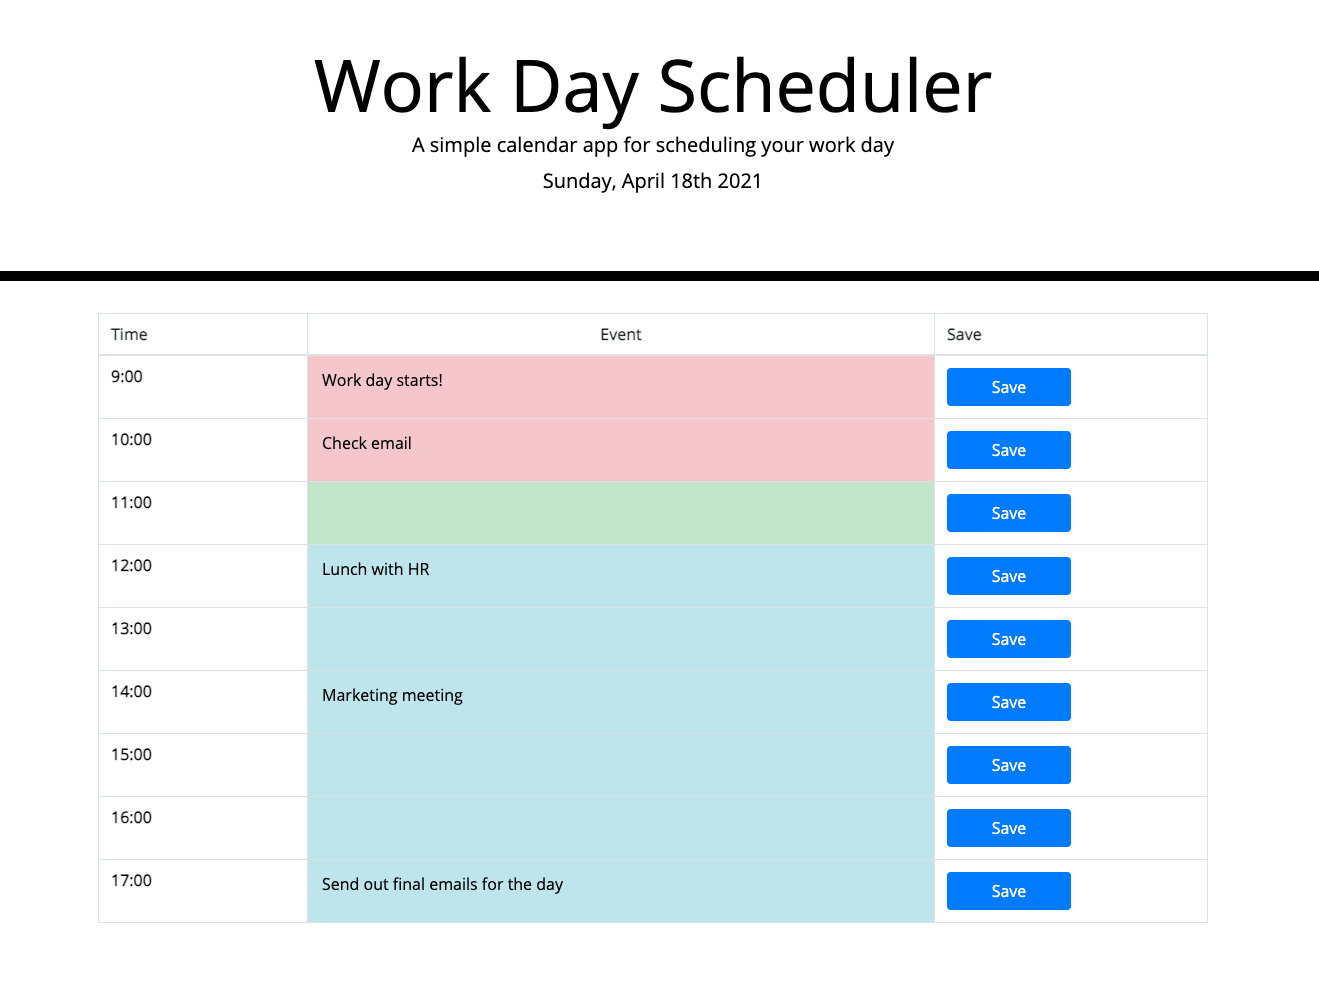
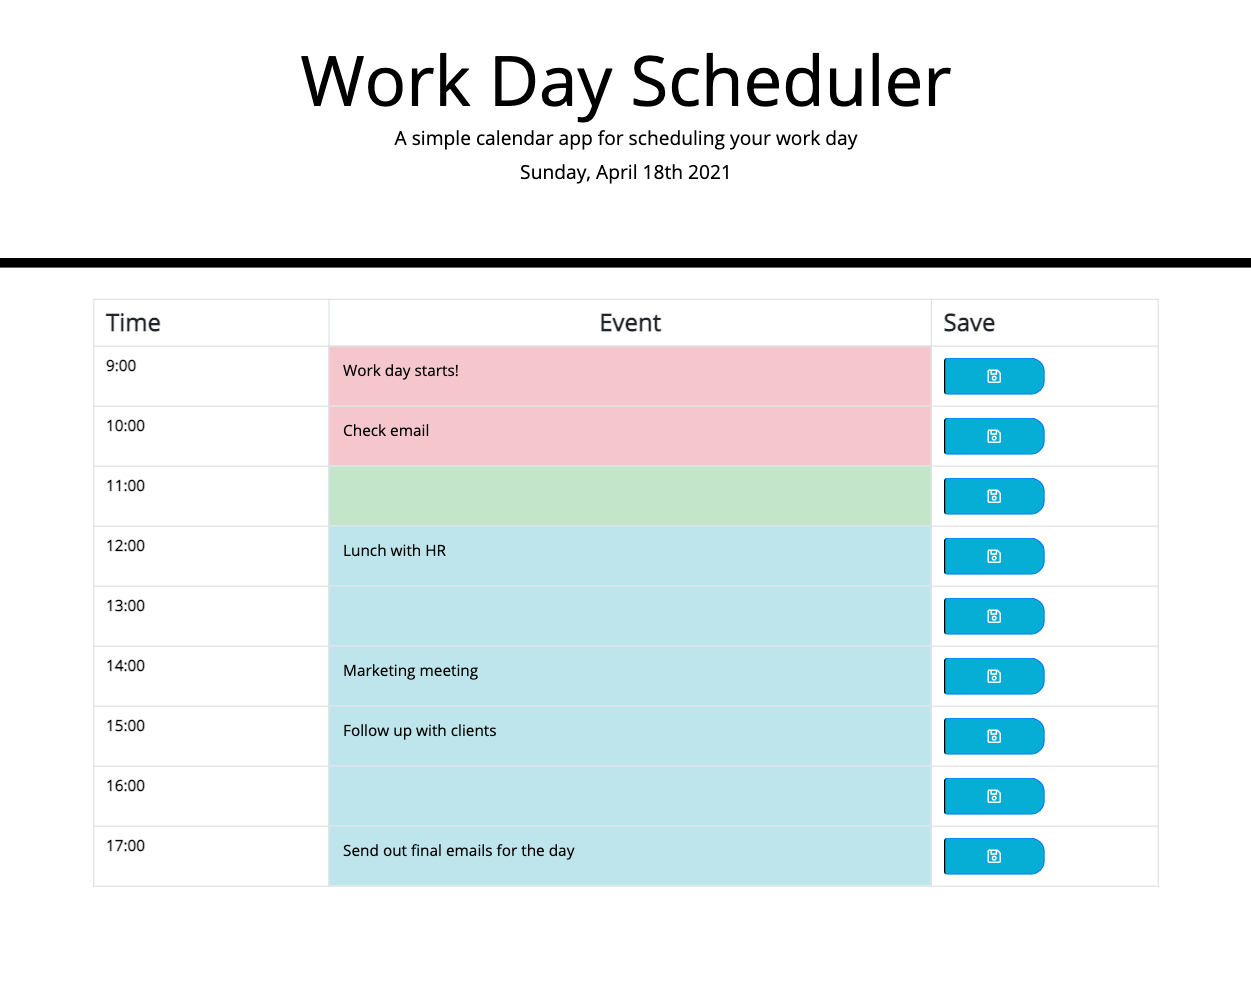
edited readme

diff --git a/README.md b/README.md
@@ -10,6 +10,8 @@
 * Bootstrap
 * JQuery
 * Moment.js
+* Google Fonts
+* Font Awesome
 
 ## Website
 https://lilyhi.github.io/daily-planner
@@ -17,5 +19,5 @@ https://lilyhi.github.io/daily-planner
 ## Contribution
 Made with 💙 by Lily Hissong 
 
-<!-- Screenshot displaying planner:
-![Screenshot of quiz start](./assets/images/daily-planner.png) -->
+Screenshot displaying planner:
+![Screenshot of quiz start](./assets/images/daily-planner.png)
